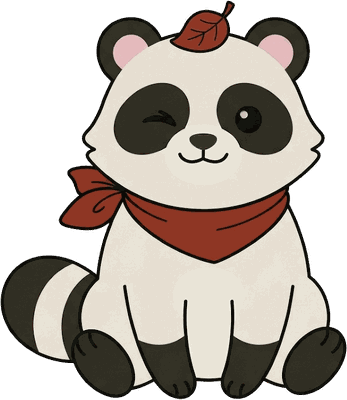
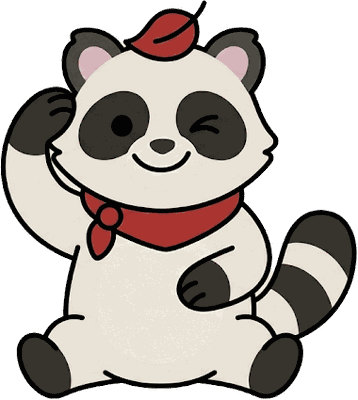
feat(non-trovata): una pagina per gli indirizzi che non esistono, col tanuki
Prima ogni indirizzo sconosciuto mostrava la dashboard senza dire niente. Ora
la dashboard sta solo su `/` e il `*` di primo livello rende «Questa pagina
non c'è»: l'indirizzo aperto, una causa probabile e il ritorno (alla
dashboard da autenticato, all'accesso da anonimo). Pubblica in entrambi gli
stati; le rotte vere e i vecchi percorsi in italiano non cambiano.

Il tanuki ha la foglia in testa e fa l'occhiolino: nelle storie giapponesi
così si trasforma. Dall'immagine Gemini è tolta la nuvoletta di fumo.

diff --git a/src/app/AppRoutes.tsx b/src/app/AppRoutes.tsx
@@ -3,18 +3,17 @@
 // l'UNICO guard (routeGuards.tsx) a due archi simmetrici:
 //
 //   /login (pubblica) sotto RedirectIfAuthenticated → AuthScreen
-//   path="*" (tutto il resto) sotto RequireAuth      → AuthenticatedShell
+//   / e le rotte vere (studio, statistiche, ...) sotto RequireAuth
 //
-// Il catch-all dietro il guard protegge OGNI path non-/login (dashboard,
-// statistiche, impostazioni: non esistono ancora come rotte, arrivano in Epic
-// 3/5). La sessione (3.18) è la PRIMA rotta VERA (`/study`) che affianca il
-// catch-all: dichiarata PRIMA di `path="*"` così ha precedenza, il resto ricade
-// sulla shell. Coerente con «nessuna rotta prima della storia che la usa».
+// Fino al 09-10-2026 un `path="*"` dietro il guard rendeva la dashboard per OGNI
+// indirizzo sconosciuto. Dal 10-10-2026 la dashboard sta solo su `/`, e il `*` di
+// primo livello, fuori dalle guardie, rende la pagina «non trovata» in entrambi gli
+// stati: le rotte con un percorso vero hanno sempre la precedenza su `*`.
 //
 // react-router è importato SOLO nel livello app. Le schermate (features) non
 // contengono controlli di auth (AC2) né stringhe di path: l'autorizzazione e il
 // routing sono tutti qui.
-import { Navigate, Route, Routes, useNavigate, useParams } from 'react-router';
+import { Navigate, Route, Routes, useLocation, useNavigate, useParams } from 'react-router';
 import { AuthScreen } from '../features/auth/AuthScreen';
 import { SessionScreen } from '../features/study/SessionScreen';
 import { StatsScreen } from '../features/stats/StatsScreen';
@@ -24,6 +23,7 @@ import { LessonPracticeScreen } from '../features/lessons/LessonPracticeScreen';
 import { PrivacyScreen } from '../features/legal/PrivacyScreen';
 import { AcknowledgementsScreen } from '../features/legal/AcknowledgementsScreen';
 import { AboutScreen } from '../features/about/AboutScreen';
+import { NotFoundScreen } from '../features/notFound/NotFoundScreen';
 import { AuthenticatedShell } from './AuthenticatedShell';
 import { SettingsPage } from './SettingsPage';
 import { RedirectIfAuthenticated, RequireAuth } from './routeGuards';
@@ -126,6 +126,18 @@ export function AppRoutes({
             />
           }
         />
+        {/* Un indirizzo che non porta da nessuna parte (10-10-2026): la pagina che lo
+            dice, pubblica in entrambi gli stati. È il `*` di primo livello: ogni
+            rotta con un percorso vero, anche sotto le guardie, ha la precedenza. */}
+        <Route
+          path="*"
+          element={
+            <NotFoundRoute
+              signedIn={authenticated}
+              onExit={() => navigate(authenticated ? ROOT_PATH : LOGIN_PATH)}
+            />
+          }
+        />
         <Route element={<RedirectIfAuthenticated authenticated={authenticated} />}>
           <Route
             path={LOGIN_PATH}
@@ -200,8 +212,10 @@ export function AppRoutes({
               />
             }
           />
+          {/* La dashboard, solo sulla radice: gli altri indirizzi sconosciuti
+              vanno alla pagina «non trovata» (prima ricadevano qui). */}
           <Route
-            path="*"
+            path={ROOT_PATH}
             element={
               <AuthenticatedShell
                 settings={settings}
@@ -237,4 +251,17 @@ function LessonPracticeRoute({
 function LegacyLessonRedirect() {
   const { lessonId = '' } = useParams();
   return <Navigate to={lessonPracticePath(lessonId)} replace />;
+}
+
+// La pagina «non trovata» legge l'indirizzo aperto (react-router resta nel livello
+// app) e lo passa alla feature.
+function NotFoundRoute({
+  signedIn,
+  onExit,
+}: {
+  readonly signedIn: boolean;
+  readonly onExit: () => void;
+}) {
+  const { pathname } = useLocation();
+  return <NotFoundScreen path={pathname} signedIn={signedIn} onExit={onExit} />;
 }

diff --git a/src/features/notFound/NotFoundScreen.tsx b/src/features/notFound/NotFoundScreen.tsx
@@ -1,0 +1,49 @@
+// Livello features/notFound (10-10-2026): la pagina per un indirizzo che non porta
+// da nessuna parte. Prima ogni indirizzo sconosciuto mostrava la dashboard senza
+// dire niente; ora lo dice, con il tanuki che si è messo la foglia in testa (nelle
+// storie giapponesi così si trasforma: la pagina è «sparita» per uno scherzo).
+//
+// PRESENTAZIONALE: nessuna porta, nessuna query. AD-1: importa SOLO ui e i18n, MAI
+// react-router: l'indirizzo e il ritorno arrivano dal livello app (`path`,
+// `onExit`), come in `AcknowledgementsScreen`. Pubblica in entrambi gli stati: da
+// autenticato riporta alla dashboard, da anonimo all'accesso (`signedIn`).
+import { useTranslation } from '../../i18n';
+import { RESPONSIVE_CONTAINER } from '../../ui/layout';
+import { MagazineFrame } from '../../ui/MagazineFrame';
+import { FOCUS_RING, SCREEN_TITLE } from '../../ui/magazine';
+import { Tanuki } from '../../ui/Tanuki';
+
+export interface NotFoundScreenProps {
+  /** L'indirizzo aperto, così com'è (`/statss`): il fatto concreto da mostrare. */
+  readonly path: string;
+  /** Autenticato: il ritorno porta alla dashboard; anonimo, all'accesso. */
+  readonly signedIn: boolean;
+  /** Il ritorno, cablato dal livello app. */
+  readonly onExit: () => void;
+}
+
+export function NotFoundScreen({ path, signedIn, onExit }: NotFoundScreenProps) {
+  const { t } = useTranslation();
+
+  return (
+    <MagazineFrame brandAsHeading>
+      <main className={`${RESPONSIVE_CONTAINER} flex flex-col gap-6 py-8 sm:py-14`}>
+        <Tanuki pose="leaf" height={160} className="self-start sm:h-[220px] sm:w-auto" />
+        <h2 className={`${SCREEN_TITLE} text-ink-primary`}>{t('notFound.title')}</h2>
+        {/* L'indirizzo aperto, in monospazio e senza maiuscole forzate: va a capo
+            ovunque, anche se è lunghissimo. */}
+        <p className="break-all border-t-[1.5px] border-border-strong pt-4 font-mono text-label text-ink-secondary">
+          {path}
+        </p>
+        <p className="text-[22px] font-medium leading-snug text-ink-primary">{t('notFound.body')}</p>
+        <button
+          type="button"
+          onClick={onExit}
+          className={`min-h-[56px] self-start border-[1.5px] border-border-strong bg-surface-raised px-6 text-label font-bold uppercase tracking-[0.04em] text-ink-primary hover:bg-surface-sunken ${FOCUS_RING}`}
+        >
+          {signedIn ? t('notFound.toDashboard') : t('notFound.toSignIn')}
+        </button>
+      </main>
+    </MagazineFrame>
+  );
+}

diff --git a/src/app/AppRoutes.test.tsx b/src/app/AppRoutes.test.tsx
@@ -145,12 +145,36 @@ describe('AppRoutes — radice protetta, autenticato', () => {
   });
 });
 
-describe('AppRoutes — deep link protetto, autenticato', () => {
+// Un indirizzo sconosciuto (10-10-2026): non più la dashboard in silenzio, ma la
+// pagina «non trovata», in entrambi gli stati.
+describe('AppRoutes — indirizzo sconosciuto, autenticato', () => {
   const markup = renderAt('/dashboard', true);
 
-  it('rende la radice protetta minima (azione primaria + Disconnetti)', () => {
-    expect(markup).toContain(en.dashboard.primaryAction);
-    expect(markup).toContain(en.auth.signOut);
+  it('rende la pagina «non trovata» con l’indirizzo aperto, non la dashboard', () => {
+    expect(markup).toContain(en.notFound.title);
+    expect(markup).toContain('/dashboard');
+    expect(markup).toContain('data-mascot="leaf"');
+    expect(markup).not.toContain(en.dashboard.primaryAction);
+  });
+
+  it('il ritorno porta alla dashboard', () => {
+    expect(markup).toContain(en.notFound.toDashboard);
+    expect(markup).not.toContain(en.notFound.toSignIn);
+  });
+
+  it('ha un solo landmark <main>', () => {
+    expect((markup.match(/<main/g) ?? []).length).toBe(1);
+  });
+});
+
+describe('AppRoutes — indirizzo sconosciuto, anonimo', () => {
+  const markup = renderAt('/statss', false);
+
+  it('rende la pagina «non trovata» (nessun rimando all’accesso), col ritorno all’accesso', () => {
+    expect(markup).toContain(en.notFound.title);
+    expect(markup).toContain('/statss');
+    expect(markup).toContain(en.notFound.toSignIn);
+    expect(markup).not.toContain(en.dashboard.primaryAction);
   });
 });
 

diff --git a/src/ui/Tanuki.tsx b/src/ui/Tanuki.tsx
@@ -12,7 +12,8 @@
 // - si stiracchia: hai saltato un giorno senza perdere la serie (statistiche);
 // - saluta: la pagina di accesso;
 // - pila di libri: «Come funziona?»;
-// - foglia in testa: pronta, ancora senza un posto.
+// - foglia in testa, con l'occhiolino: la pagina non trovata (così il tanuki si
+//   trasforma, nelle storie giapponesi).
 //
 // Compare solo nei momenti che contano, mai sulla dashboard di tutti i giorni; è
 // muto e decorativo (alt vuoto, `aria-hidden`): i fatti li dicono sempre le
@@ -57,7 +58,7 @@ const POSES: Readonly<Record<TanukiPose, { readonly src: string; readonly w: num
   stretch: { src: stretch, w: 402, h: 400 },
   waving: { src: waving, w: 404, h: 400 },
   books: { src: books, w: 412, h: 400 },
-  leaf: { src: leaf, w: 347, h: 400 },
+  leaf: { src: leaf, w: 358, h: 400 },
 };
 
 export function Tanuki({ pose, height, className }: TanukiProps) {

diff --git a/src/i18n/en.ts b/src/i18n/en.ts
@@ -558,4 +558,13 @@ export const en = {
     repoShortLabel: 'Code on GitHub',
     back: 'Back',
   },
+  // La pagina per un indirizzo che non porta da nessuna parte (10-10-2026). Dice il
+  // fatto (l'indirizzo non esiste) e una causa probabile; il ritorno cambia con lo
+  // stato: dashboard da autenticato, accesso da anonimo.
+  notFound: {
+    title: 'This page is not here',
+    body: 'The address you opened does not lead to any page of Tsundoku Zero. It may be mistyped, or the page may have moved.',
+    toDashboard: 'Back to the dashboard',
+    toSignIn: 'Go to sign in',
+  },
 } as const;

diff --git a/src/i18n/it.ts b/src/i18n/it.ts
@@ -560,4 +560,12 @@ export const it = {
     repoShortLabel: 'Codice su GitHub',
     back: 'Indietro',
   },
+  // La pagina per un indirizzo che non porta da nessuna parte (10-10-2026): STESSE
+  // chiavi di `en` (parità ricorsiva).
+  notFound: {
+    title: "Questa pagina non c'è",
+    body: "L'indirizzo che hai aperto non porta a nessuna pagina di Tsundoku Zero. Forse è scritto male, o la pagina ha cambiato indirizzo.",
+    toDashboard: 'Torna alla dashboard',
+    toSignIn: "Vai all'accesso",
+  },
 } as const;
